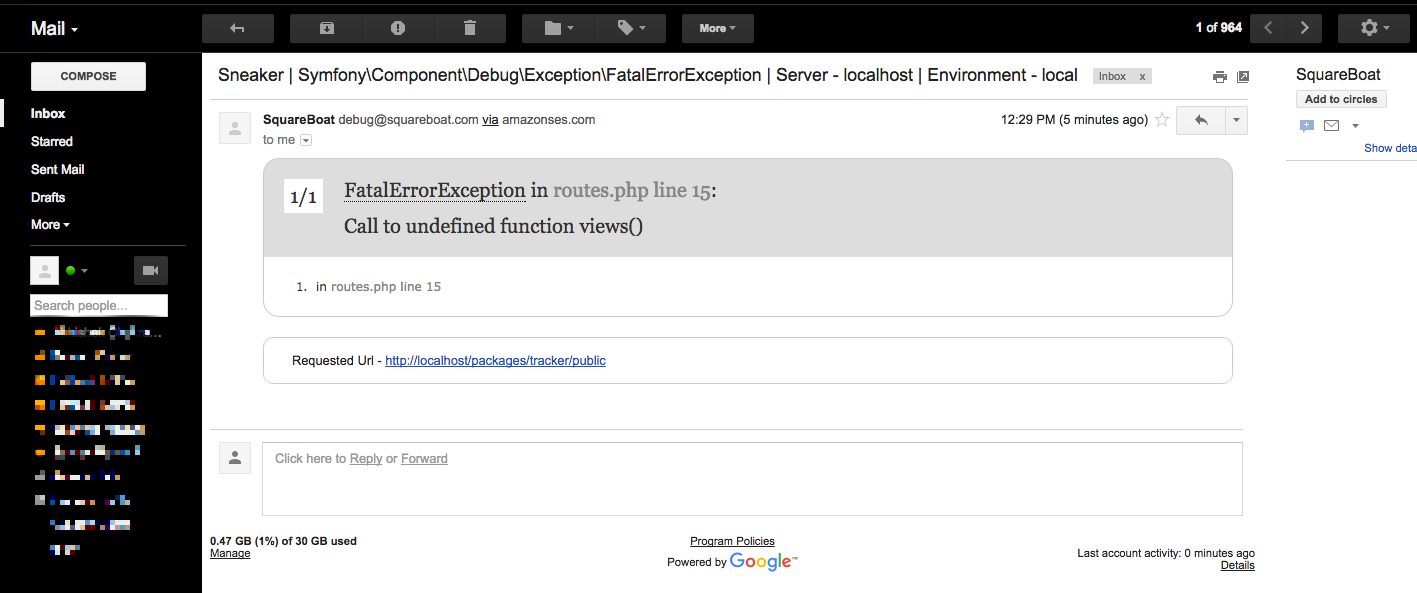
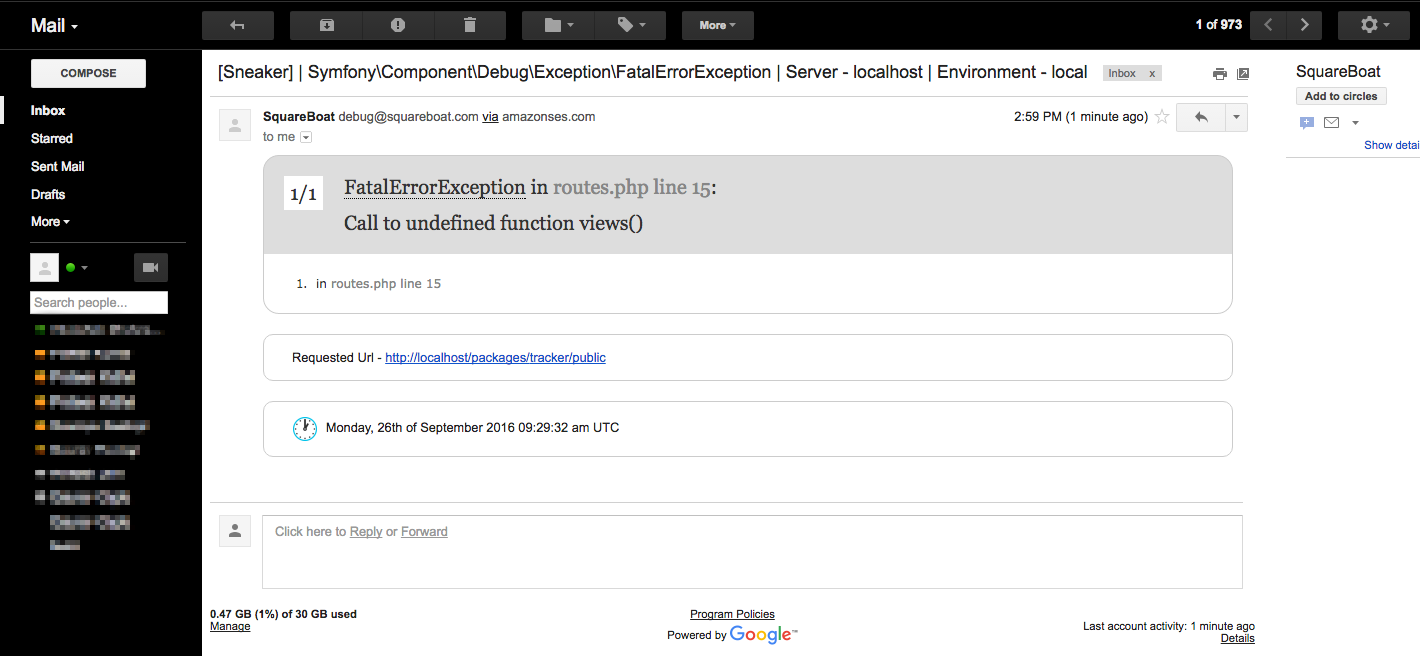
Time added in email body

diff --git a/resources/views/email/body.blade.php b/resources/views/email/body.blade.php
@@ -26,5 +26,8 @@
         <div class="extra-info">
             Requested Url - {{ request()->url() }}
         </div>
+        <div class="extra-info">
+            &#128336; &nbsp;{{ date('l, jS \of F Y h:i:s a') }} {{ date_default_timezone_get() }}
+        </div>
     </body>
 </html>

diff --git a/resources/views/email/subject.blade.php b/resources/views/email/subject.blade.php
@@ -1,1 +1,1 @@
-Sneaker | {{ get_class($exception) }} | Server - {{ request()->server('SERVER_NAME') }} | Environment - {{ config('app.env') }}
+[Sneaker] | {{ get_class($exception) }} | Server - {{ request()->server('SERVER_NAME') }} | Environment - {{ config('app.env') }}

diff --git a/README.md b/README.md
@@ -1,6 +1,6 @@
 # Laravel Exception Notifications
 
-An easy way to send emails whenever an exception occurs on the server for Laravel Applications.
+An easy way to send emails with stack trace whenever an exception occurs on the server for Laravel Applications.
 
 ![sneaker example image](sneaker.png?raw=true "Sneaker")
 
